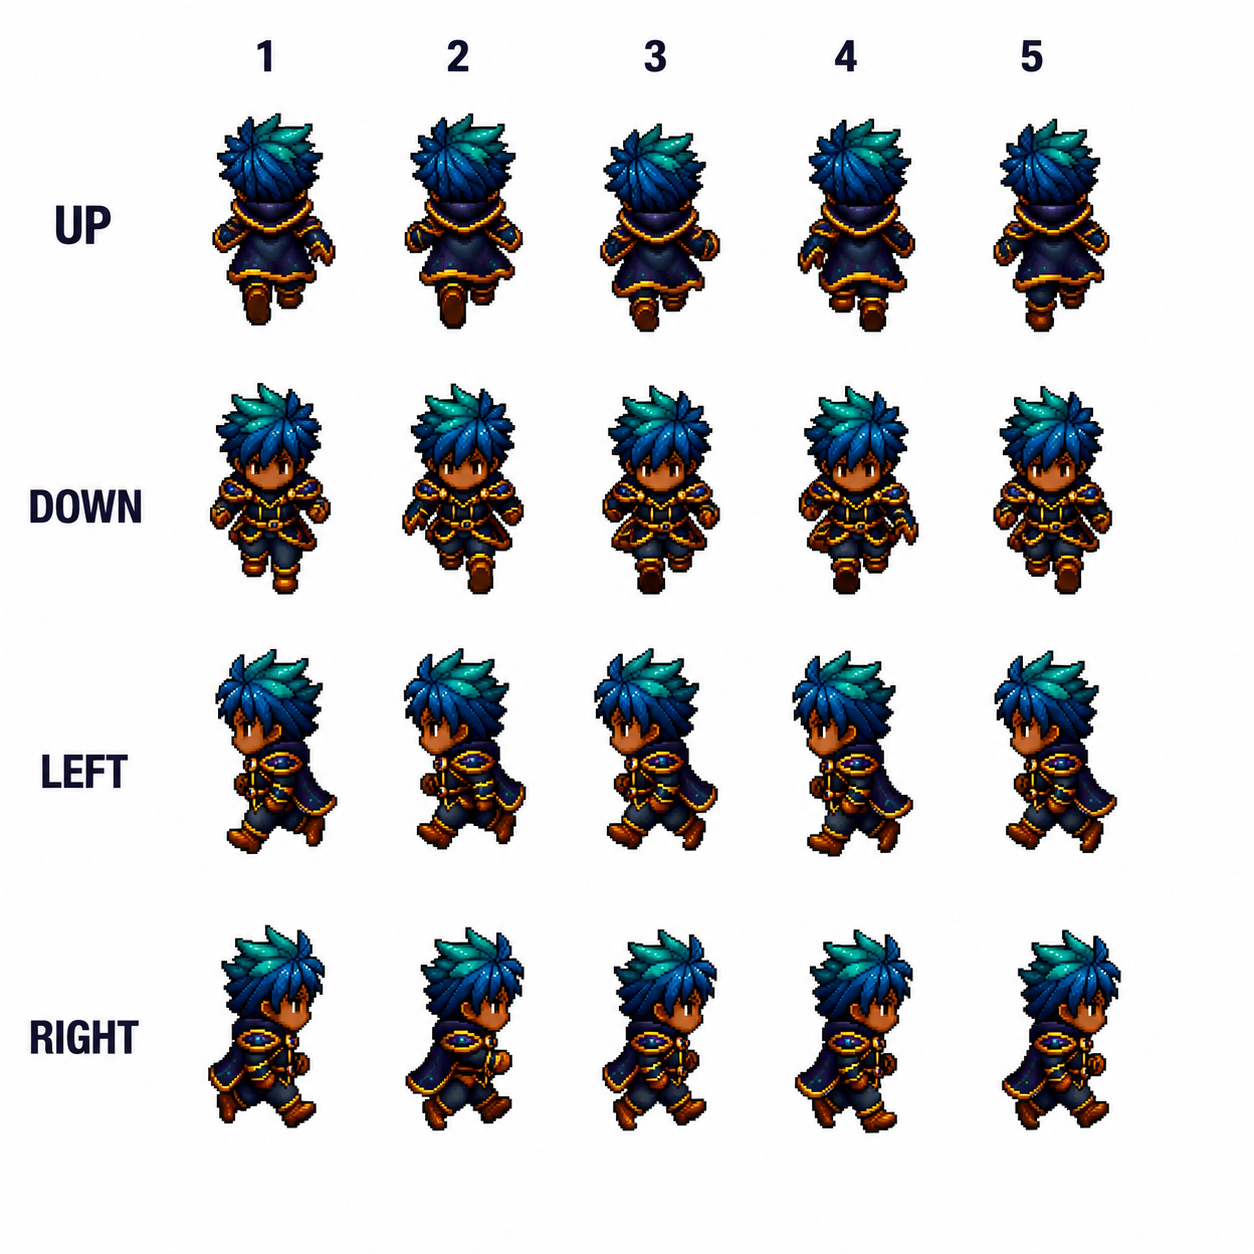
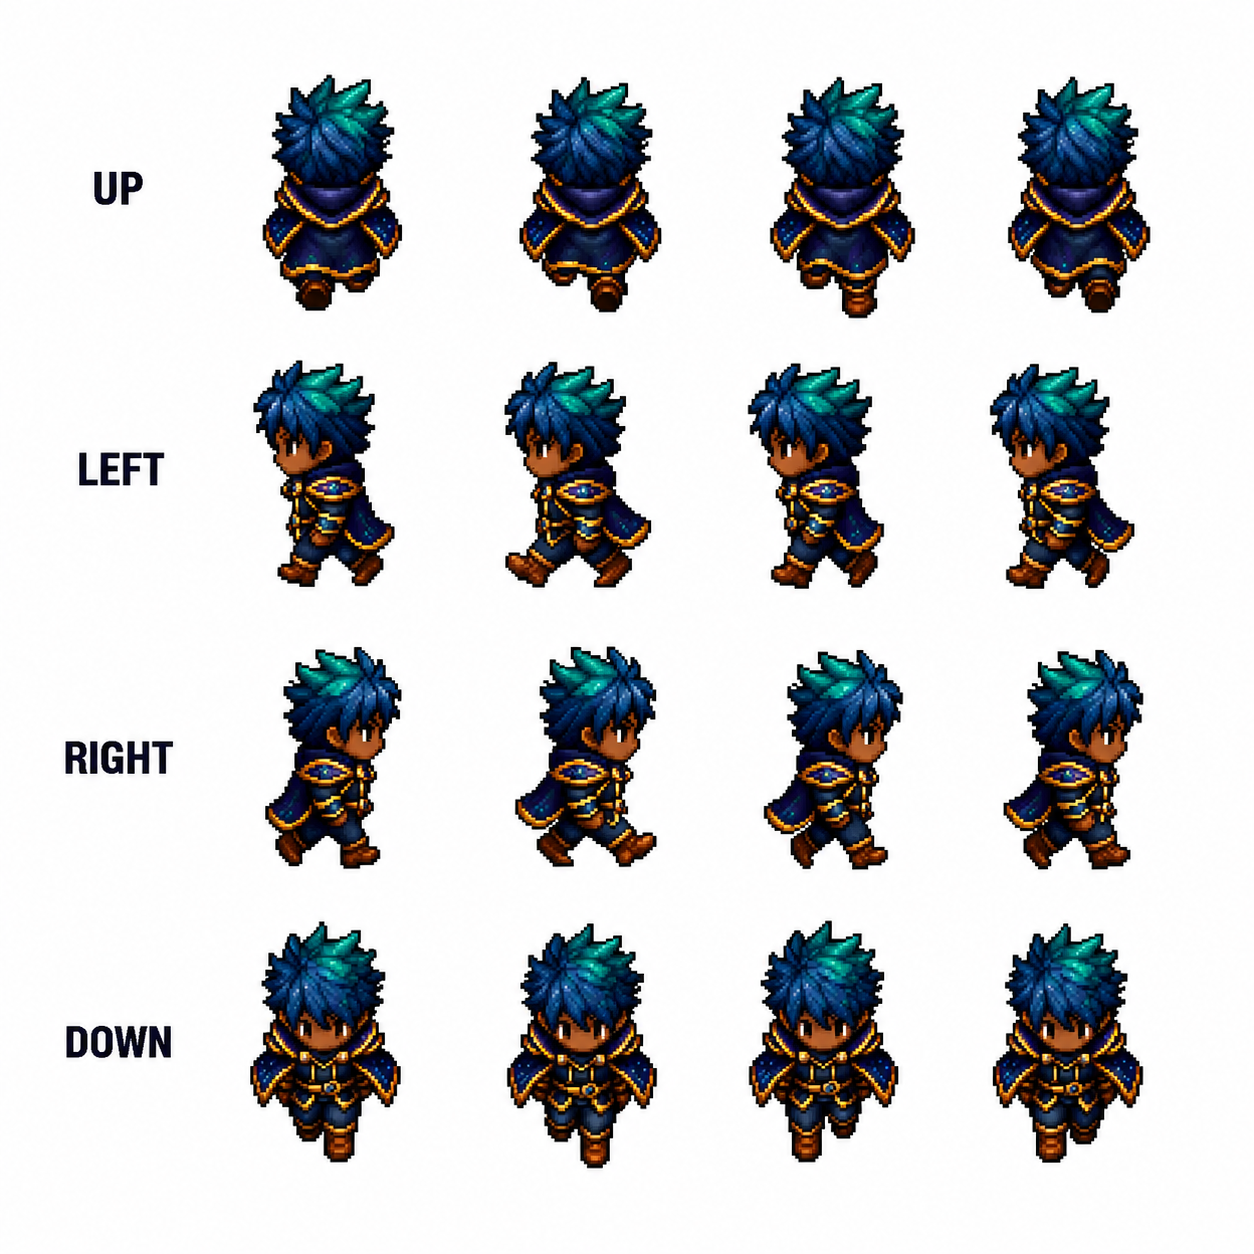
fix(expedition): revert player2 sheet to standard walk anim; clear ship-respawn landing pad

diff --git a/expedition.html b/expedition.html
@@ -1933,19 +1933,6 @@
       },
     };
 
-    // Player-2 jog sheet — animation_walk_player2.png is a 4-row x 5-column
-    // grid (up / down / left / right, 5 jog frames each) with its own art and
-    // palette. Calibrated from the PNG via per-cell content detection. Used by
-    // the South Central encounter challenger so it never looks like the player.
-    const PLAYER2_SHEET = {
-      frameW: 260,
-      frameH: 312,
-      cols: [140, 373, 632, 867, 1076],   // 5 jog-frame column centres
-      rowBases: { up: 316, down: 618, left: 875, right: 1143 },
-    };
-    const PLAYER2_FRAMES = 5;     // jog frames per direction
-    const P2_DRAW_W      = 38;    // bake width — keeps the source aspect (no squish)
-
     // Animation pace — 8 frames per second through a 4-frame walk cycle (so a step every 125ms).
     const ANIM_FPS = 8;
     const ANIM_FRAMES = 4;
@@ -2397,7 +2384,7 @@
         { x: 12 - 2, y: 10 - 2, w: 5, h: 5 },                      // Vol spawn (~400,320 → tile 12,10)
         { x: 21 - 2, y: 22 - 2, w: 5, h: 5 },                      // Aur spawn (~700,720 → tile 21,22)
         { x:  7 - 2, y: 27 - 2, w: 5, h: 5 },                      // Elzoran spawn (~240,880 → tile 7,27)
-        { x: UFO_TILE_X - 1, y: UFO_TILE_Y - 1, w: 7 + 2, h: 2 + 2 },  // UFO (7×2 tiles at 224×60) + 1-tile pad
+        { x: UFO_TILE_X - 2, y: UFO_TILE_Y - 1, w: 11, h: 11 },  // UFO + clear landing pad below — keeps trees/houses off the ship-respawn point
       ];
       for (const z of reserveZones) placed.push(z);
       // UFO is a hardcoded landmark — emit it as a world object so it renders
@@ -2775,7 +2762,6 @@
       // (character_player.png, character_voltyran.png, character_eurakeon.png, etc.).
       sheet: { src: '/assets/animation_walk_player.png', raw: true },
       // Player-2 jog sheet — drives the South Central encounter challenger.
-      player2Sheet: { src: '/assets/animation_walk_player2.png', raw: true },
       // Fly sprite sheet — same 4×4 layout, used while the player is in fly
       // mode (tap-then-hold B/Shift). Baked at CHAR_W_FLY × CHAR_H_FLY (wider
       // canvas) so the extended wings aren't horizontally crushed.
@@ -2937,7 +2923,6 @@
       // After all images load, slice both sprite sheets into frame canvases.
       if (onProgress) onProgress(0.92, 'Cutting frames…');
       ASSETS.charFrames     = sliceCharSheet(ASSETS.sheet);
-      ASSETS.player2Frames  = slicePlayer2Sheet(ASSETS.player2Sheet);
       ASSETS.flyFrames      = sliceFlySheet(ASSETS.flySheet);
       ASSETS.runFrames      = sliceRunSheet(ASSETS.runSheet);
       ASSETS.idleFrames     = sliceIdleSheet(ASSETS.idleSheet);
@@ -3038,34 +3023,6 @@
       // (v2 sheet has 4 distinct down-row poses — no synthesized mirror needed.
       // mirrorCanvas() is still defined below for future use if any direction
       // needs a single-frame source augmented into an alternating cycle.)
-      return result;
-    }
-
-    // Player-2 jog-sheet slicer — same idea as sliceCharSheet but 5 jog frames
-    // per row, PLAYER2_SHEET coordinates, baked at P2_DRAW_W x CHAR_H so the
-    // source aspect is preserved. The flood-filled white background is cleared
-    // by the shared chromaKeyWhite pass, exactly like the player sheet.
-    function slicePlayer2Sheet(sheetImg) {
-      const directions = ['up', 'down', 'left', 'right'];
-      const result = { up: [], down: [], left: [], right: [] };
-      for (const dir of directions) {
-        const cropY = PLAYER2_SHEET.rowBases[dir] - PLAYER2_SHEET.frameH;
-        for (let i = 0; i < PLAYER2_FRAMES; i++) {
-          const cropX = PLAYER2_SHEET.cols[i] - PLAYER2_SHEET.frameW / 2;
-          const c = document.createElement('canvas');
-          c.width = P2_DRAW_W;
-          c.height = CHAR_H;
-          const cctx = c.getContext('2d');
-          cctx.imageSmoothingEnabled = false;
-          cctx.drawImage(
-            sheetImg,
-            cropX, cropY, PLAYER2_SHEET.frameW, PLAYER2_SHEET.frameH,
-            0, 0, P2_DRAW_W, CHAR_H
-          );
-          chromaKeyWhite(c);
-          result[dir].push(c);
-        }
-      }
       return result;
     }
 
@@ -4019,14 +3976,13 @@
         // 5 tiles, then chases them down and triggers the 1v1 battle overlay.
         // Spent after a battle; re-armed by resetEncounters() on region re-entry.
         id: 'challenger_p2',
-        framesKey: 'player2Frames',
-        walkOrder: { up: [0,1,2,3,4], down: [0,1,2,3,4], left: [0,1,2,3,4], right: [0,1,2,3,4] },
+        framesKey: 'charFrames',
+        walkOrder: WALK_ORDER,
         x: 20 * 32, y: 22 * 32,
-        w: P2_DRAW_W, h: CHAR_H,
+        w: CHAR_W, h: CHAR_H,
         speed: 48,
         facing: 'down',
         animFps: 9,
-        animFrames: 5,
         animTime: 0,
         animFrame: 0,
         currentDir: 'down',
@@ -4738,7 +4694,7 @@
               npc.facing = dy > 0 ? 'down' : 'up';
             }
             npc.animTime += dt;
-            npc.animFrame = Math.floor(npc.animTime * (npc.animFps || 6)) % (npc.animFrames || ANIM_FRAMES);
+            npc.animFrame = Math.floor(npc.animTime * (npc.animFps || 6)) % ANIM_FRAMES;
             const tryX = npc.x + dx * dodgeSpeed * dt;
             if (!npcBlocked(npc, tryX, npc.y)) npc.x = tryX;
             const tryY = npc.y + dy * dodgeSpeed * dt;
@@ -4801,7 +4757,7 @@
           }
           // Advance walk cycle while moving.
           npc.animTime += dt;
-          npc.animFrame = Math.floor(npc.animTime * npc.animFps) % (npc.animFrames || ANIM_FRAMES);
+          npc.animFrame = Math.floor(npc.animTime * npc.animFps) % ANIM_FRAMES;
           // Axis-separated movement, same as wander logic, so collisions slide.
           const tryX = npc.x + nx * speed * dt;
           if (!npcBlocked(npc, tryX, npc.y)) npc.x = tryX;
@@ -4840,7 +4796,7 @@
               if (Math.abs(evx) > Math.abs(evy)) npc.facing = evx > 0 ? 'right' : 'left';
               else                               npc.facing = evy > 0 ? 'down' : 'up';
               npc.animTime += dt;
-              npc.animFrame = Math.floor(npc.animTime * npc.animFps) % (npc.animFrames || ANIM_FRAMES);
+              npc.animFrame = Math.floor(npc.animTime * npc.animFps) % ANIM_FRAMES;
               const etx = npc.x + enx * epace * dt;
               if (!npcBlocked(npc, etx, npc.y)) npc.x = etx;
               const ety = npc.y + eny * epace * dt;
@@ -4868,7 +4824,7 @@
         if (dx !== 0 || dy !== 0) {
           // Animate walk cycle while in motion.
           npc.animTime += dt;
-          npc.animFrame = Math.floor(npc.animTime * npc.animFps) % (npc.animFrames || ANIM_FRAMES);
+          npc.animFrame = Math.floor(npc.animTime * npc.animFps) % ANIM_FRAMES;
           // Axis-separated movement with collision (same idea as the player):
           // attempt X first, then Y, so an NPC bumping into a wall slides along
           // it instead of getting stuck. If a move is blocked, abandon the